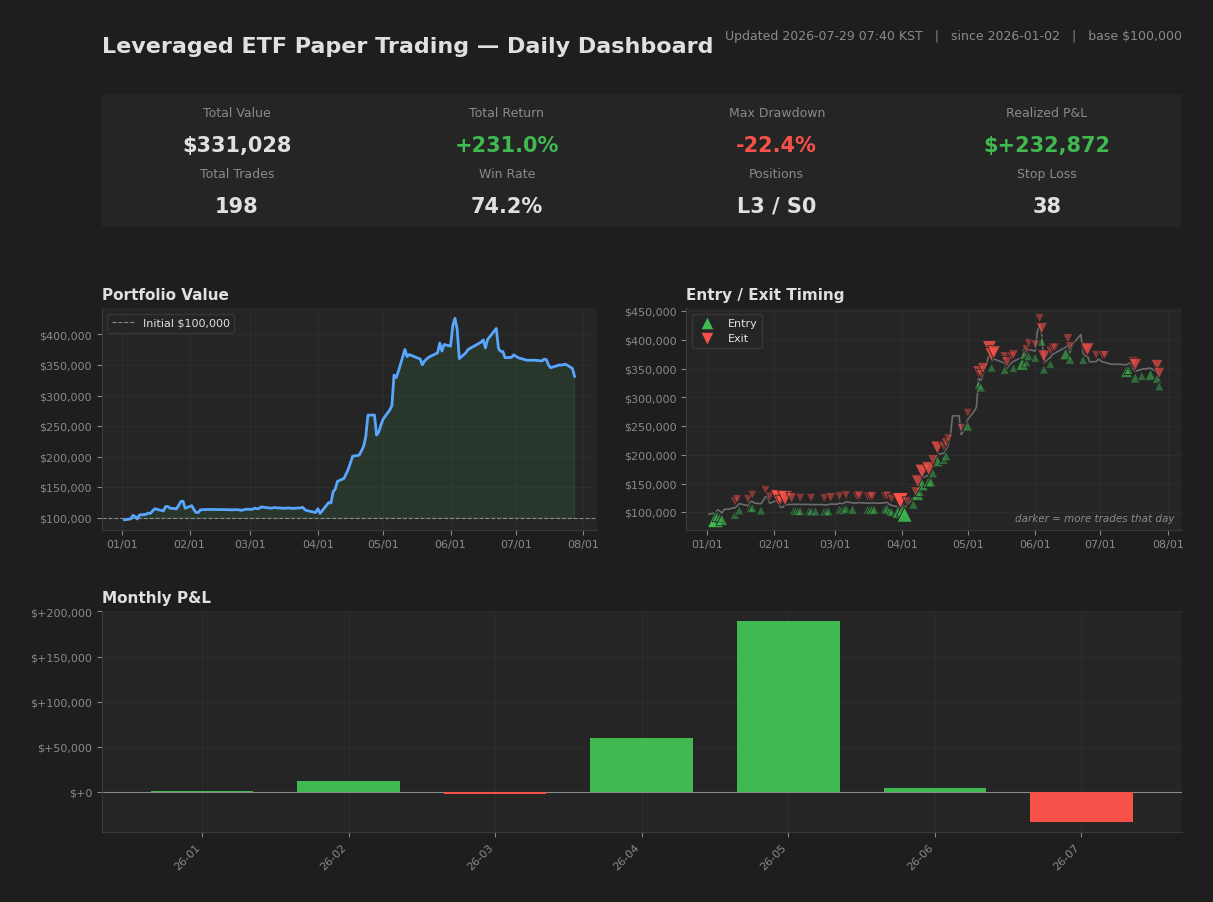
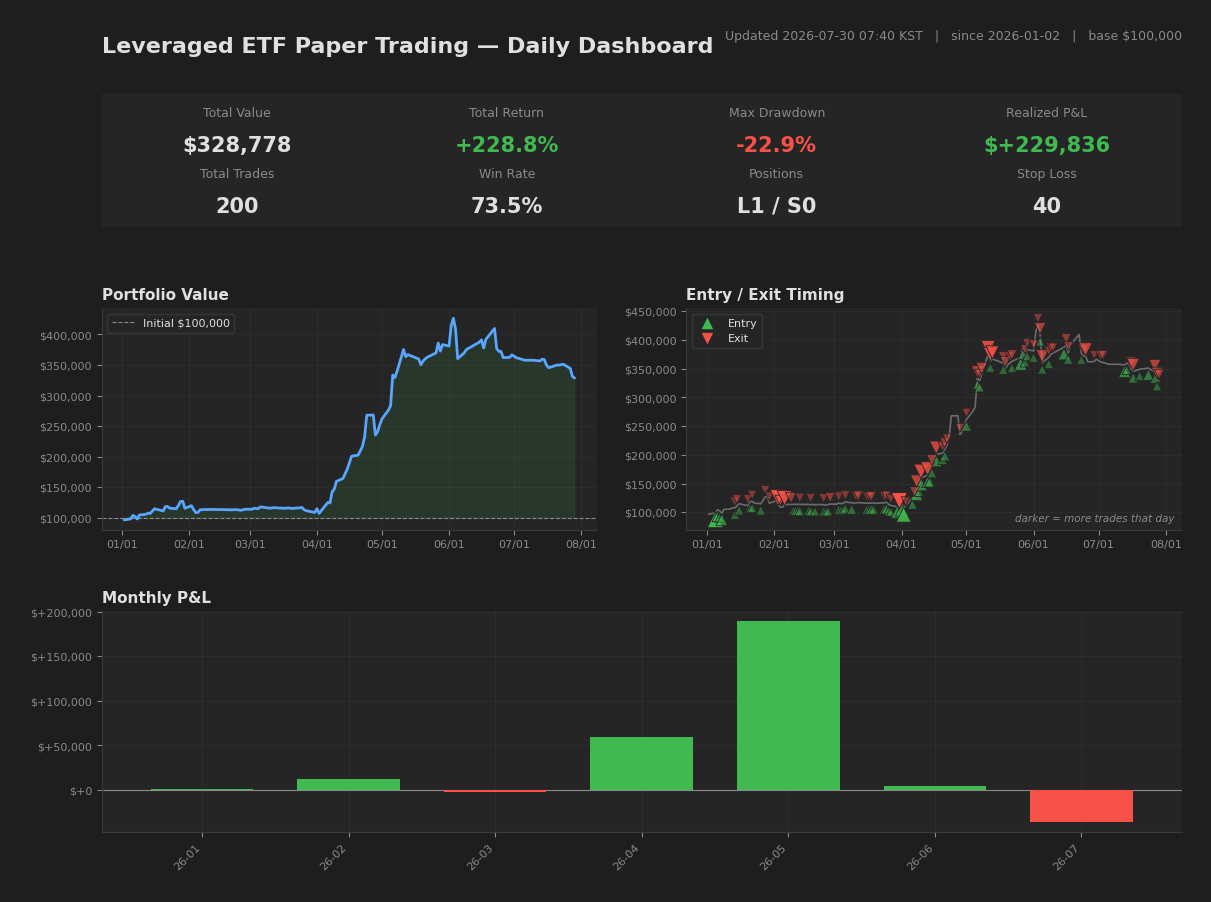
[2026-07-29] Close
Portfolio: $328,778 (+228.8%)
Positions: 1 (L1 S0)
Cumulative: 147/200 wins, P&L: $+229,836
Exits: 2 (P&L: $-3,036)

diff --git a/README.md b/README.md
@@ -16,5 +16,11 @@ This repository is a real-time validation log of a rule-based, risk-managed syst
 Please note the following when reviewing the results:
 
 Focus on risk management, not headline returns. The strategy targets leveraged ETFs and is currently in a paper-trading phase during a strong market period. As such, the absolute return figures are amplified and should not be read as the main achievement. The intended focus is drawdown control and risk-adjusted performance.
-Drawdown control vs. benchmark. While the benchmark experienced a maximum drawdown of roughly 40–50% over the same period, this strategy contained its maximum drawdown to around 16.4%.
+Drawdown control vs. benchmark. While the benchmark experienced a maximum drawdown of roughly 40–50% over the same period, this strategy's own drawdown is reported below, measured from the paper-trading equity curve and refreshed automatically after each market close.
+
+<!-- METRICS:BEGIN (auto-generated by snapshot_backup.py after each market close; do not edit by hand) -->
+- Maximum drawdown: **-22.32%** (peak 2026-06-03 -> trough 2026-07-28, still in drawdown at this date)
+- As of **2026-07-28** market close. Updated automatically after each close.
+<!-- METRICS:END -->
+
 Execution costs. Because the strategy holds positions over multi-day periods with low turnover, the impact of slippage and commissions is designed to be limited rather than a primary driver of results.
